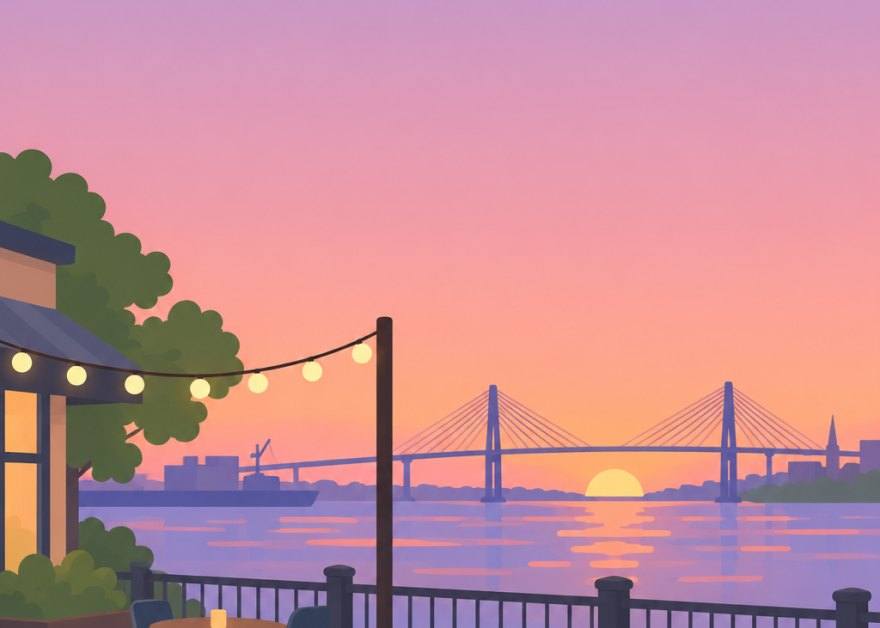
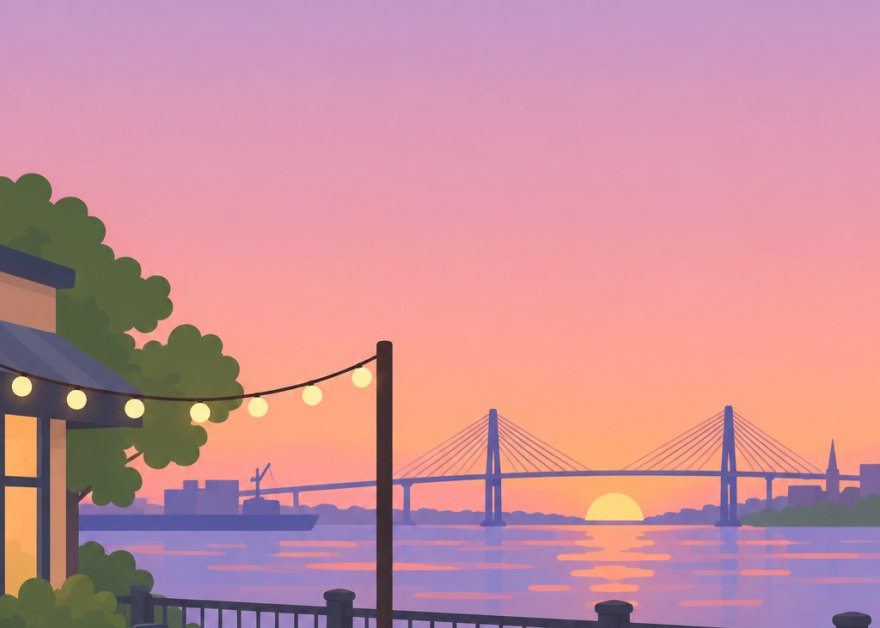
Reframe hero scenes and add secondary glow animations
Each non-Morning scene is reframed so its key object and primary
animation sit below the greeting and search field, with art re-exported
from Figma. Adds a subtle secondary loop per scene (sun glow, lamp and
lantern halos, window glow, sparkles, mist) matching the Figma tracks.

Claude-Session: https://claude.ai/code/session_01Vi7EQAcvzhD2AffmDmeyqS

Changed region(s): [[0.0, 0.242, 1.0, 1.0]]

diff --git a/src/scenes.js b/src/scenes.js
@@ -159,34 +159,69 @@ const FLAKES = [[116.47, 112, 2.32, 0.046, 2.91, 5.9137], [406.54, 75, 2.05, 0, 
   [251.18, 76, 3.72, 1.223, 2.91, 5.589], [21.73, 109, 4.48, 0, 5.82, 4.4608], [331.34, 72, 2.46, 0.245, 2.91, 4.0238],
   [372.08, 105, 3.91, 0, 5.82, 8.7671]];
 
+// Secondary glows: soft blurred ellipses (Figma blur radius R = CSS blur R/2) that breathe on the 6 s loop
+const pulse = (vals) => track(vals.map((v, i) => [i * 1.5, v, 'i']));
+const glow = (x, y, w, h, bg, R, op, sc) => ({
+  x, y, w, h, round: true, bg, blur: R / 2,
+  t: { opacity: pulse(op), ...(sc ? { scale: pulse(sc) } : {}) },
+});
+const OP1 = [1, 0.7, 1.06, 0.82, 1], OP2 = [0.82, 1.06, 0.7, 1, 0.82];
+const SC1 = [1, 0.95, 1.04, 0.98, 1], SC2 = [0.98, 1.04, 0.95, 1, 0.98];
+const by = (b, k) => k.map((v) => +(b * v).toFixed(3));
+// Street lamp glow trio (same values as the Morning lamp); k scales the sizes
+const lamp = (cx, cy, k = 1) => [
+  glow(cx - 48 * k, cy - 48 * k, 96 * k, 96 * k, '#ff9a1f', 24, [0.3, 0.2, 0.32, 0.24, 0.3], [1, 0.94, 1.05, 0.97, 1]),
+  glow(cx - 27 * k, cy - 27 * k, 54 * k, 54 * k, '#ffb82e', 12, [0.45, 0.33, 0.47, 0.38, 0.45], [1, 0.96, 1.03, 0.98, 1]),
+  glow(cx - 5 * k, cy - 7 * k, 10 * k, 14 * k, '#ffd17a', 4, [0.6, 0.46, 0.62, 0.5, 0.6]),
+];
+// St. Patrick's sparkles: a white dot blinks once per loop
+const sparkle = (x, y, t0) => ({
+  x, y, w: 4, h: 4, round: true, bg: '#fff', blur: 1,
+  t: { opacity: track([[t0, 0], [+(t0 + 0.5).toFixed(3), 0.9, 'i'], [Math.min(+(t0 + 1.2).toFixed(3), LOOP), 0, 'i']]) },
+});
+const SPARKLES = [[178, 400, 0.2], [260, 394, 1.3], [216, 374, 2.4], [148, 446, 3.2], [298, 438, 4.1], [234, 428, 5]];
+// Halloween mist drifts sideways 24 px while breathing
+const mist = (x, y, w, h, b, k, from) => ({
+  x, y, w, h, round: true, bg: '#e6e1f4', blur: 15,
+  t: { opacity: pulse(by(b, k)), x: pulse([from, -from, from, -from, from]) },
+});
+
 const LIGHT = '255,252,247', DARK = '8,8,20';
 
 // Morning keeps its own fountain and street lamp (fountain.js, lamp.js)
 const MORNING = { id: 'morning', label: 'Morning', art: sceneMorning, off: 130, scrim: LIGHT, dark: false, ph: '#000', greeting: 'Good morning', sub: null };
 
 const others = () => [
-  { id: 'afternoon', label: 'Afternoon', art: afternoon, off: 95, scrim: LIGHT, dark: false, ph: '#4b5462', greeting: 'Good afternoon', sub: 'Calm spots for a slow lunch',
-    layers: fountain({ color: '#f4fbff', A: { x: 215.45, y: 282.7, dx: [-4.5, -1.5, 1.5, 4.5], up: -14, down: 2 },
+  { id: 'afternoon', label: 'Afternoon', art: afternoon, off: 100, scrim: LIGHT, dark: false, ph: '#4b5462', greeting: 'Good afternoon', sub: 'Calm spots for a slow lunch',
+    layers: [...fountain({ color: '#f4fbff', A: { x: 215.45, y: 282.7, dx: [-4.5, -1.5, 1.5, 4.5], up: -14, down: 2 },
       B: { P: 1.5, xl: 208.4, xr: 226.4, y: 340.4, dx: 74, up: -12, down: 44, delays: seq(6, 0.25) },
       C: { P: 1.3, xl: 210.4, xr: 224.4, y: 340.4, dx: 40, up: -8, down: 36, delays: seq(4, 0.325) },
-      rip: { x: 174, y: 386, w: 90, h: 12 } }) },
-  { id: 'evening', label: 'Evening', art: evening, off: 95, scrim: DARK, dark: true, ph: '#4b5462', greeting: 'Good evening', sub: 'Low-key dinners nearby',
-    layers: SHIMMER.map((a) => shimmer(...a)) },
+      rip: { x: 174, y: 386, w: 90, h: 12 } }),
+      glow(147, 300, 170, 90, '#fffbe6', 28, by(0.22, OP1), SC1)] },
+  { id: 'evening', label: 'Evening', art: evening, off: 83, scrim: DARK, dark: true, ph: '#4b5462', greeting: 'Good evening', sub: 'Low-key dinners nearby',
+    layers: [...SHIMMER.map((a) => shimmer(...a)),
+      glow(232, 294, 150, 84, '#ff9d5c', 36, by(0.38, OP1), SC1), glow(275, 320, 64, 32, '#ffd08a', 16, by(0.45, OP2), SC2)] },
   { id: 'night', label: 'Night', art: night, off: 105, scrim: DARK, dark: true, ph: '#4b5462', greeting: 'Good night', sub: 'Late and quiet, near you',
-    layers: FIREFLIES.map((a) => firefly(...a)) },
-  { id: 'stpatricks', label: 'St. Patrick’s', art: stpatricks, off: 140, scrim: LIGHT, dark: false, ph: '#4b5462', greeting: 'Happy St. Patrick’s', sub: 'Parade day, the calm way',
-    layers: fountain({ color: '#8fe3b3', A: { x: 213.45, y: 338.7, dx: [-4.5, -1.5, 1.5, 4.5], up: -10, down: 2 },
+    layers: [...FIREFLIES.map((a) => firefly(...a)), ...lamp(203, 375)] },
+  { id: 'stpatricks', label: 'St. Patrick’s', art: stpatricks, off: 170, scrim: LIGHT, dark: false, ph: '#4b5462', greeting: 'Happy St. Patrick’s', sub: 'Parade day, the calm way',
+    layers: [...fountain({ color: '#8fe3b3', A: { x: 213.45, y: 338.7, dx: [-4.5, -1.5, 1.5, 4.5], up: -10, down: 2 },
       B: { P: 1.2, xl: 209.4, xr: 221.4, y: 354.4, dx: 30, up: -6, down: 32, delays: seq(4, 0.3) },
       C: { P: 1.4, xl: 206.4, xr: 224.4, y: 392.4, dx: 48, up: -6, down: 46, delays: seq(5, 0.28) },
-      rip: { x: 162, y: 440, w: 110, h: 12 } }) },
-  { id: 'music', label: 'Music Festival', art: music, off: 90, scrim: DARK, dark: true, ph: '#4b5462', greeting: 'Jazz Fest, gently', sub: 'Seated, lower-volume sets this week',
-    layers: [note(182, 6, 0, -1, true), note(198, 8, 0.75, 1), note(182, 6, 1.5, -1), note(198, 8, 2.25, 1)] },
-  { id: 'holiday', label: 'Holiday Lights', art: holiday, off: 115, scrim: DARK, dark: true, ph: '#4b5462', greeting: 'Lights, minus the rush', sub: 'Best quiet hours to see the squares',
-    layers: TWINKLE.map((a) => twinkle(...a)) },
+      rip: { x: 162, y: 440, w: 110, h: 12 } }),
+      ...SPARKLES.map((a) => sparkle(...a))] },
+  { id: 'music', label: 'Music Festival', art: music, off: 125, scrim: DARK, dark: true, ph: '#4b5462', greeting: 'Jazz Fest, gently', sub: 'Seated, lower-volume sets this week',
+    layers: [note(182, 6, 0, -1, true), note(198, 8, 0.75, 1), note(182, 6, 1.5, -1), note(198, 8, 2.25, 1),
+      glow(89, 315, 96, 96, '#ffb347', 24, by(0.28, OP1), SC1), glow(109, 335, 56, 56, '#ffd27a', 12, by(0.4, OP1), SC1),
+      glow(252, 315, 96, 96, '#ffb347', 24, by(0.23, OP2), SC2), glow(272, 335, 56, 56, '#ffd27a', 12, by(0.33, OP2), SC2)] },
+  { id: 'holiday', label: 'Holiday Lights', art: holiday, off: 105, scrim: DARK, dark: true, ph: '#4b5462', greeting: 'Lights, minus the rush', sub: 'Best quiet hours to see the squares',
+    layers: [...TWINKLE.map((a) => twinkle(...a)), ...lamp(358, 341, 0.85)] },
   { id: 'halloween', label: 'Halloween', art: halloween, off: 160, scrim: DARK, dark: true, ph: '#4b5462', greeting: 'Halloween, your pace', sub: 'Low-scare, low-noise spots tonight',
-    layers: [candle(153, 374, 46, 0), candle(109, 405, 40, -0.162), candle(185, 430, 42, -0.341), candle(165, 264, 30, -0.147)] },
-  { id: 'christmas', label: 'Christmas', art: christmas, off: 120, scrim: LIGHT, dark: false, ph: '#4b5462', greeting: 'Merry & calm', sub: 'Quiet spots for holiday plans',
-    layers: FLAKES.map((a) => flake(...a)) },
+    layers: [candle(153, 374, 46, 0), candle(109, 405, 40, -0.162), candle(185, 430, 42, -0.341), candle(165, 264, 30, -0.147),
+      mist(-30, 440, 220, 44, 0.16, OP1, -12), mist(120, 450, 260, 48, 0.16, OP2, 12), mist(60, 422, 180, 36, 0.16, OP2, 12)] },
+  { id: 'christmas', label: 'Christmas', art: christmas, off: 178, scrim: LIGHT, dark: false, ph: '#4b5462', greeting: 'Merry & calm', sub: 'Quiet spots for holiday plans',
+    layers: [...FLAKES.map((a) => flake(...a)),
+      glow(95, 340, 200, 140, '#ffc46b', 44, by(0.22, OP1), SC1), glow(137, 343, 28, 28, '#ffd98a', 12, by(0.5, OP1), SC1),
+      glow(181, 343, 28, 28, '#ffd98a', 12, by(0.5, OP2), SC2), glow(226, 343, 28, 28, '#ffd98a', 12, by(0.5, OP1), SC1)] },
 ];
 
 // The phone build only ever shows Morning, so the other scenes (and their art) are left out of it

diff --git a/src/Home.jsx b/src/Home.jsx
@@ -25,7 +25,7 @@ function Layer({ l }) {
   }
   return (
     <motion.div className="abs" initial={initial} animate={animate} transition={transition}
-      style={{ left: l.x, top: l.y, width: l.w, height: l.h, borderRadius: l.round ? '50%' : l.cr, background: l.bg, border: l.border, boxShadow: l.glow, rotate: l.rot, transformOrigin: l.rot ? '0 0' : '50% 50%', pointerEvents: 'none' }}>
+      style={{ left: l.x, top: l.y, width: l.w, height: l.h, borderRadius: l.round ? '50%' : l.cr, background: l.bg, border: l.border, boxShadow: l.glow, rotate: l.rot, filter: l.blur ? `blur(${l.blur}px)` : undefined, transformOrigin: l.rot ? '0 0' : '50% 50%', pointerEvents: 'none' }}>
       {l.k?.map((c, i) => <Layer key={i} l={c} />)}
     </motion.div>
   );

diff --git a/README.md b/README.md
@@ -153,4 +153,4 @@ The screen keeps its 440 x 956 layout and fills the window width, in portrait or
 
 ## Home hero scenes
 
-The laptop build's side panel has a Home hero list that swaps the Home hero between the nine finished Figma bands in the Final flow section: Morning, Afternoon, Evening, Night, St. Patrick’s Day, Savannah Music Festival, Holiday Lights, Halloween and Christmas. Each scene brings its art, scrim, greeting and subtitle lines, text colours (white on the dark scenes, including the status bar clock and battery) and its Motion layer, rebuilt from the Figma keyframe tracks on the shared 6 s loop: fountains with drops and ripples, river shimmer, fireflies, music notes, twinkling lights, candle flicker and snowfall. Scene data is in `src/scenes.js`; Morning keeps its own fountain and street lamp (`src/fountain.js`, `src/lamp.js`). The chip still shows the active mode, and Reduce motion keeps the art and drops the layers. The phone build always shows Morning and leaves the other scenes out.
+The laptop build's side panel has a Home hero list that swaps the Home hero between the nine finished Figma bands in the Final flow section: Morning, Afternoon, Evening, Night, St. Patrick’s Day, Savannah Music Festival, Holiday Lights, Halloween and Christmas. Each scene brings its art, scrim, greeting and subtitle lines, text colours (white on the dark scenes, including the status bar clock and battery) and its Motion layer, rebuilt from the Figma keyframe tracks on the shared 6 s loop: fountains with drops and ripples, river shimmer, fireflies, music notes, twinkling lights, candle flicker and snowfall, plus a subtle glow loop on each scene's lights and water (sun glow, lamp and lantern halos, shop window, sparkles, mist). Each scene is framed so its key object sits in the free band under the search field. Scene data is in `src/scenes.js`; Morning keeps its own fountain and street lamp (`src/fountain.js`, `src/lamp.js`). The chip still shows the active mode, and Reduce motion keeps the art and drops the layers. The phone build always shows Morning and leaves the other scenes out.
